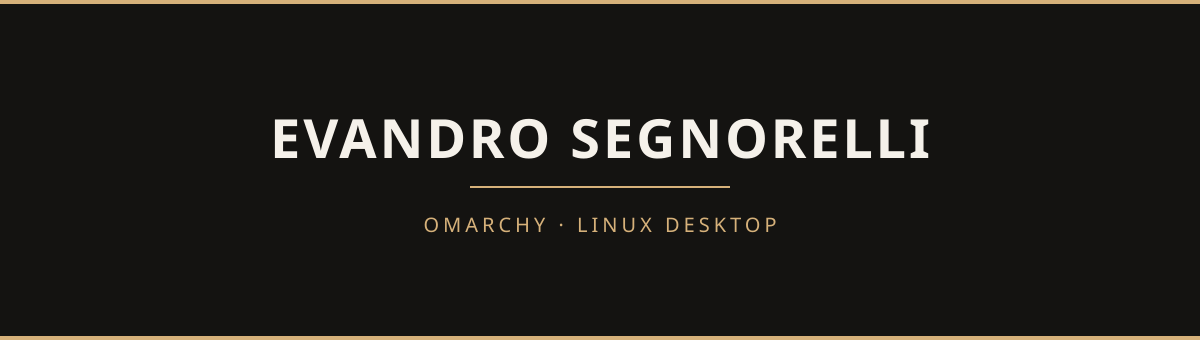
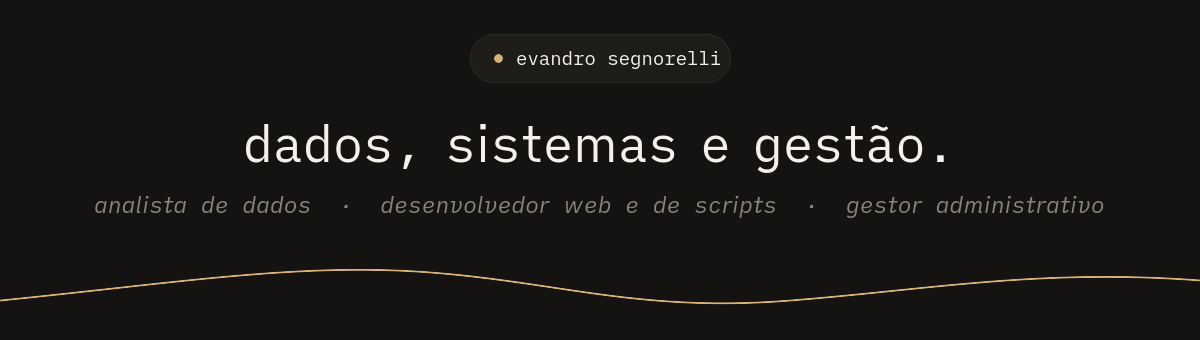
Rewrite the profile as a short dashboard with Evandro's own voice.
The banner now reads "dados, sistemas e gestão" with the three roles,
the opening says who he is before any number, and a stats grid replaces
the stacked cards. Career history and the four activity lists live in
collapsed panels so the page stays short. Generator fallbacks are in
Portuguese; placeholders and abort-on-failure are unchanged.

diff --git a/scripts/generate_readme.py b/scripts/generate_readme.py
@@ -61,12 +61,12 @@ def own_repos(username: str, token: str, sort: str) -> list:
 
 def working_on(username: str, token: str) -> str:
     lines = [bullet_repo(repo) for repo in own_repos(username, token, "pushed")[:5]]
-    return "\n".join(lines) + "\n" if lines else "- No public activity yet.\n"
+    return "\n".join(lines) + "\n" if lines else "- Nada público mexido ainda.\n"
 
 
 def latest_projects(username: str, token: str) -> str:
     lines = [bullet_repo(repo) for repo in own_repos(username, token, "created")[:5]]
-    return "\n".join(lines) + "\n" if lines else "- No public repositories yet.\n"
+    return "\n".join(lines) + "\n" if lines else "- Nenhum repositório público ainda.\n"
 
 
 def recent_prs(username: str, token: str) -> str:
@@ -109,9 +109,9 @@ def recent_prs(username: str, token: str) -> str:
         repo = f"{parts[-2]}/{parts[-1]}" if len(parts) >= 3 else "repository"
         title = " ".join((item.get("title") or "Pull request").split())
         lines.append(
-            f"- [{title}]({item['html_url']}) on [{repo}](https://github.com/{repo})"
+            f"- [{title}]({item['html_url']}) em [{repo}](https://github.com/{repo})"
         )
-    return "\n".join(lines) + "\n" if lines else "- No recent pull requests.\n"
+    return "\n".join(lines) + "\n" if lines else "- Nenhum pull request recente.\n"
 
 
 def recent_stars(username: str, token: str) -> str:
@@ -123,7 +123,7 @@ def recent_stars(username: str, token: str) -> str:
     for repo in stars[:5]:
         if isinstance(repo, dict) and repo.get("full_name"):
             lines.append(bullet_repo(repo))
-    return "\n".join(lines) + "\n" if lines else "- No recent stars.\n"
+    return "\n".join(lines) + "\n" if lines else "- Nenhuma estrela recente.\n"
 
 
 def main() -> int:

diff --git a/README.md b/README.md
@@ -1,66 +1,101 @@
-<p align="center"><img src="assets/banner.png" width="600" alt="Evandro Segnorelli" /></p>
+<p align="center"><img src="assets/banner.png" width="600" alt="Evandro Segnorelli — dados, sistemas e gestão. Analista de dados, desenvolvedor web e de scripts, gestor administrativo." /></p>
 
-### Socials
-
-<p align="left">
-<a href="https://github.com/Esegnorelli" target="_blank" rel="noreferrer">
-  <picture>
-    <source media="(prefers-color-scheme: dark)" srcset="https://raw.githubusercontent.com/danielcranney/readme-generator/main/public/icons/socials/github-dark.svg" />
-    <source media="(prefers-color-scheme: light)" srcset="https://raw.githubusercontent.com/danielcranney/readme-generator/main/public/icons/socials/github.svg" />
-    <img src="https://raw.githubusercontent.com/danielcranney/readme-generator/main/public/icons/socials/github.svg" width="32" height="32" alt="GitHub" />
-  </picture>
-</a>
-<a href="https://instagram.com/Esegnorelli" target="_blank" rel="noreferrer">
-  <picture>
-    <source media="(prefers-color-scheme: dark)" srcset="https://raw.githubusercontent.com/danielcranney/readme-generator/main/public/icons/socials/instagram-dark.svg" />
-    <source media="(prefers-color-scheme: light)" srcset="https://raw.githubusercontent.com/danielcranney/readme-generator/main/public/icons/socials/instagram.svg" />
-    <img src="https://raw.githubusercontent.com/danielcranney/readme-generator/main/public/icons/socials/instagram.svg" width="32" height="32" alt="Instagram" />
-  </picture>
-</a>
-<a href="https://linkedin.com/in/Esegnorelli" target="_blank" rel="noreferrer">
-  <picture>
-    <source media="(prefers-color-scheme: dark)" srcset="https://raw.githubusercontent.com/danielcranney/readme-generator/main/public/icons/socials/linkedin-dark.svg" />
-    <source media="(prefers-color-scheme: light)" srcset="https://raw.githubusercontent.com/danielcranney/readme-generator/main/public/icons/socials/linkedin.svg" />
-    <img src="https://raw.githubusercontent.com/danielcranney/readme-generator/main/public/icons/socials/linkedin.svg" width="32" height="32" alt="LinkedIn" />
-  </picture>
-</a>
-<a href="https://twitter.com/Esegnorelli" target="_blank" rel="noreferrer">
-  <picture>
-    <source media="(prefers-color-scheme: dark)" srcset="https://raw.githubusercontent.com/danielcranney/readme-generator/main/public/icons/socials/twitter-dark.svg" />
-    <source media="(prefers-color-scheme: light)" srcset="https://raw.githubusercontent.com/danielcranney/readme-generator/main/public/icons/socials/twitter.svg" />
-    <img src="https://raw.githubusercontent.com/danielcranney/readme-generator/main/public/icons/socials/twitter.svg" width="32" height="32" alt="X" />
-  </picture>
-</a>
+<p align="center">
+Analista de dados e gestor administrativo no <b>Conglomerado BGPF Group</b>.<br />
+Comecei no código como MEI, desenvolvendo os sistemas da rede <b>Hora do Pastel</b>,<br />
+depois de mais de dez anos cuidando de gente, estoque e processo do lado de dentro da operação.
 </p>
 
-### GitHub Stats
+<p align="center"><sub>
+<a href="https://github.com/Esegnorelli">github</a> ·
+<a href="https://instagram.com/Esegnorelli">instagram</a> ·
+<a href="https://linkedin.com/in/Esegnorelli">linkedin</a> ·
+<a href="https://twitter.com/Esegnorelli">x</a>
+</sub></p>
 
-<p align="left">
-  <img src="https://github-stats-extended.vercel.app/api?username=Esegnorelli&show_icons=true&hide_border=true&bg_color=141311&title_color=d6b17a&text_color=f5f1ea&icon_color=d6b17a" alt="GitHub stats" />
-  <img src="https://github-stats-extended.vercel.app/api/top-langs/?username=Esegnorelli&layout=compact&hide_border=true&bg_color=141311&title_color=d6b17a&text_color=f5f1ea&langs_count=6" alt="Most used languages" />
-</p>
+<table align="center">
+  <tr>
+    <td width="33%" valign="top">
+      <b>dados</b><br />
+      <sub>Transformo planilha solta em número que decide: análise, indicadores e dashboards de faturamento, com Excel avançado no bolso.</sub>
+    </td>
+    <td width="33%" valign="top">
+      <b>sistemas</b><br />
+      <sub>Desenvolvimento web e scripts que tiram o trabalho repetitivo da mão de quem opera. Nas horas vagas, o meu desktop Linux: <a href="https://github.com/Esegnorelli/omarchy-ilha"><code>omarchy-ilha</code></a> e <a href="https://github.com/Esegnorelli/omarchy-dunes-theme"><code>omarchy-dunes-theme</code></a>.</sub>
+    </td>
+    <td width="33%" valign="top">
+      <b>gestão</b><br />
+      <sub>Pessoas, recursos materiais, terceirizados e risco. Sei o que o sistema precisa fazer porque já estive do outro lado do balcão.</sub>
+    </td>
+  </tr>
+</table>
 
-<p align="left"><img src="assets/github-metrics.svg" alt="GitHub activity" /></p>
+<table align="center">
+  <tr>
+    <td colspan="2" align="center">
+      <img src="https://github-profile-summary-cards.vercel.app/api/cards/profile-details?username=Esegnorelli&theme=gruvbox" width="100%" alt="Contribuições no último ano" />
+    </td>
+  </tr>
+  <tr>
+    <td width="50%" align="center">
+      <img src="https://streak-stats.demolab.com?user=Esegnorelli&hide_border=true&background=282828&ring=FE8019&fire=FE8019&currStreakNum=FABD2F&sideNums=FABD2F&currStreakLabel=FE8019&sideLabels=B8BB26&dates=A89984&stroke=504945&locale=pt_BR" width="100%" alt="Sequência de contribuições" />
+    </td>
+    <td width="50%" align="center">
+      <img src="https://github-profile-summary-cards.vercel.app/api/cards/stats?username=Esegnorelli&theme=gruvbox" width="100%" alt="Números do GitHub" />
+    </td>
+  </tr>
+  <tr>
+    <td width="50%" align="center">
+      <img src="https://github-profile-summary-cards.vercel.app/api/cards/most-commit-language?username=Esegnorelli&theme=gruvbox" width="100%" alt="Linguagens por commit" />
+    </td>
+    <td width="50%" align="center">
+      <img src="https://github-profile-summary-cards.vercel.app/api/cards/productive-time?username=Esegnorelli&theme=gruvbox&utcOffset=-3" width="100%" alt="Commits por hora do dia (UTC-3)" />
+    </td>
+  </tr>
+</table>
 
-### 👷 Check out what I'm currently working on
+<details>
+<summary><b>trajetória</b> · da operação ao código</summary>
+<br />
+
+| quando | onde | o quê |
+|---|---|---|
+| hoje | Conglomerado BGPF Group | Analista de dados e gestor administrativo |
+| — | Rede Hora do Pastel · MEI | Desenvolvedor de sistemas: web, scripts e o [dashboard de faturamento](https://github.com/Esegnorelli/hora-do-pastel-faturamento) |
+| 2019 – 2020 | Tais Comércio de Pastéis NH | Gerente administrativo |
+| 2016 – 2017 | Rex Comércio de Alimentos | Gerente administrativo |
+| 2016 – 2017 | Val Belluna Comércio de Alimentos | Gerente de restaurante |
+| 2013 – 2015 | Kipel Vedações Hidráulicas e Pneumáticas | Vendedor |
+| 2012 | Industrial Metalúrgica Rotamil | Programador de controle de produção |
+| 2007 – 2012 | Endosul | Analista de planejamento industrial |
+
+**Formação** · Bacharel em Administração (FSG, 2016) · Tecnólogo em Processos Gerenciais (Feevale, 2022)<br />
+**Idiomas** · português, inglês e espanhol
+
+</details>
+
+<details>
+<summary><b>atividade recente</b> · repositórios, pull requests e estrelas</summary>
+
+#### na bancada
 
 - [Esegnorelli/omarchy-ilha](https://github.com/Esegnorelli/omarchy-ilha) - Floating island bar for Omarchy: a clock at rest, one status line on hover, one panel at a time.
 - [Esegnorelli/hora-do-pastel-faturamento](https://github.com/Esegnorelli/hora-do-pastel-faturamento) - Dashboard de faturamento da rede Hora do Pastel · Next.js + Supabase + Vercel
 - [Esegnorelli/omarchy-dunes-theme](https://github.com/Esegnorelli/omarchy-dunes-theme) - Dunes — theme for Omarchy
 - [Esegnorelli/devlinks](https://github.com/Esegnorelli/devlinks)
 
-### 🌱 My latest projects
+#### por ordem de chegada
 
 - [Esegnorelli/omarchy-ilha](https://github.com/Esegnorelli/omarchy-ilha) - Floating island bar for Omarchy: a clock at rest, one status line on hover, one panel at a time.
 - [Esegnorelli/omarchy-dunes-theme](https://github.com/Esegnorelli/omarchy-dunes-theme) - Dunes — theme for Omarchy
 - [Esegnorelli/devlinks](https://github.com/Esegnorelli/devlinks)
 - [Esegnorelli/hora-do-pastel-faturamento](https://github.com/Esegnorelli/hora-do-pastel-faturamento) - Dashboard de faturamento da rede Hora do Pastel · Next.js + Supabase + Vercel
 
-### 🔨 My recent Pull Requests
+#### no código dos outros
 
-- [Priority: live OmaCapy page shows a broken tofu preview](https://github.com/omacom/omarchy-plugin-marketplace/pull/120) on [omacom/omarchy-plugin-marketplace](https://github.com/omacom/omarchy-plugin-marketplace)
+- [Priority: live OmaCapy page shows a broken tofu preview](https://github.com/omacom/omarchy-plugin-marketplace/pull/120) em [omacom/omarchy-plugin-marketplace](https://github.com/omacom/omarchy-plugin-marketplace)
 
-### ⭐ Recent Stars
+#### de olho
 
 - [NousResearch/hermes-agent](https://github.com/NousResearch/hermes-agent) - The agent that grows with you
 - [openclaw/openclaw](https://github.com/openclaw/openclaw) - The AI that really does things. Any OS. Any Platform. The lobster way. 🦞
@@ -68,8 +103,4 @@
 - [code-yeongyu/oh-my-openagent](https://github.com/code-yeongyu/oh-my-openagent) - OmO: Just type "mass ulw" keyword with your prompt. Now you are the master of graph engineering.
 - [luizomf/otaviomiranda.com.br](https://github.com/luizomf/otaviomiranda.com.br) - My personal site and blog. All code, posts, and history are open.
 
-### 📫 How to reach me:
-  - GitHub    : <https://github.com/Esegnorelli>
-  - Instagram : <https://instagram.com/Esegnorelli>
-  - LinkedIn  : <https://linkedin.com/in/Esegnorelli>
-  - X         : <https://twitter.com/Esegnorelli>
+</details>
